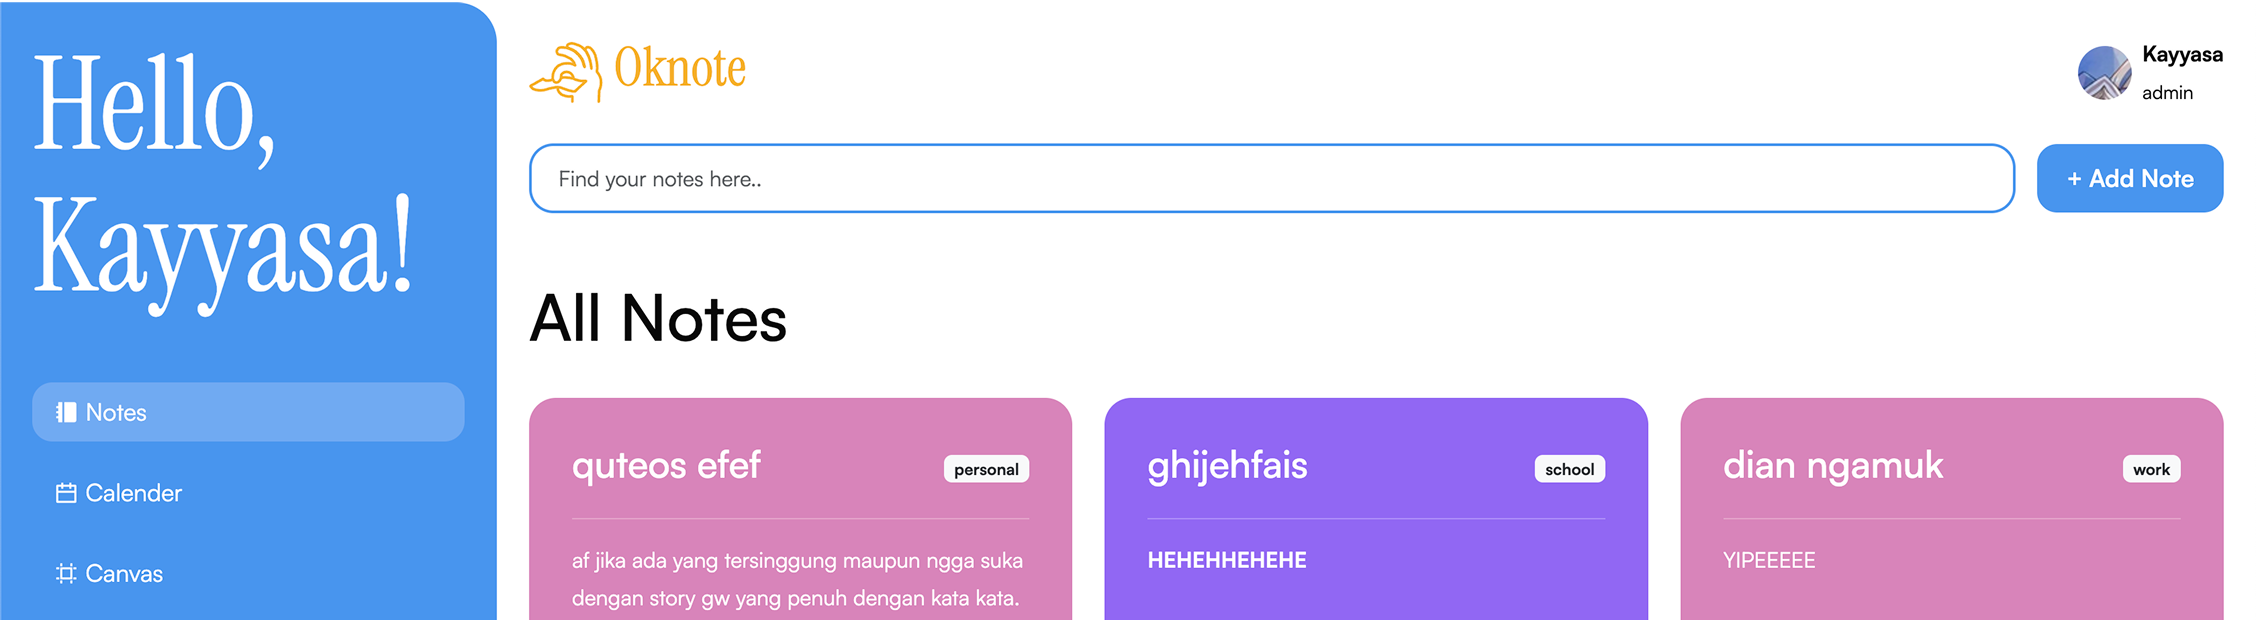
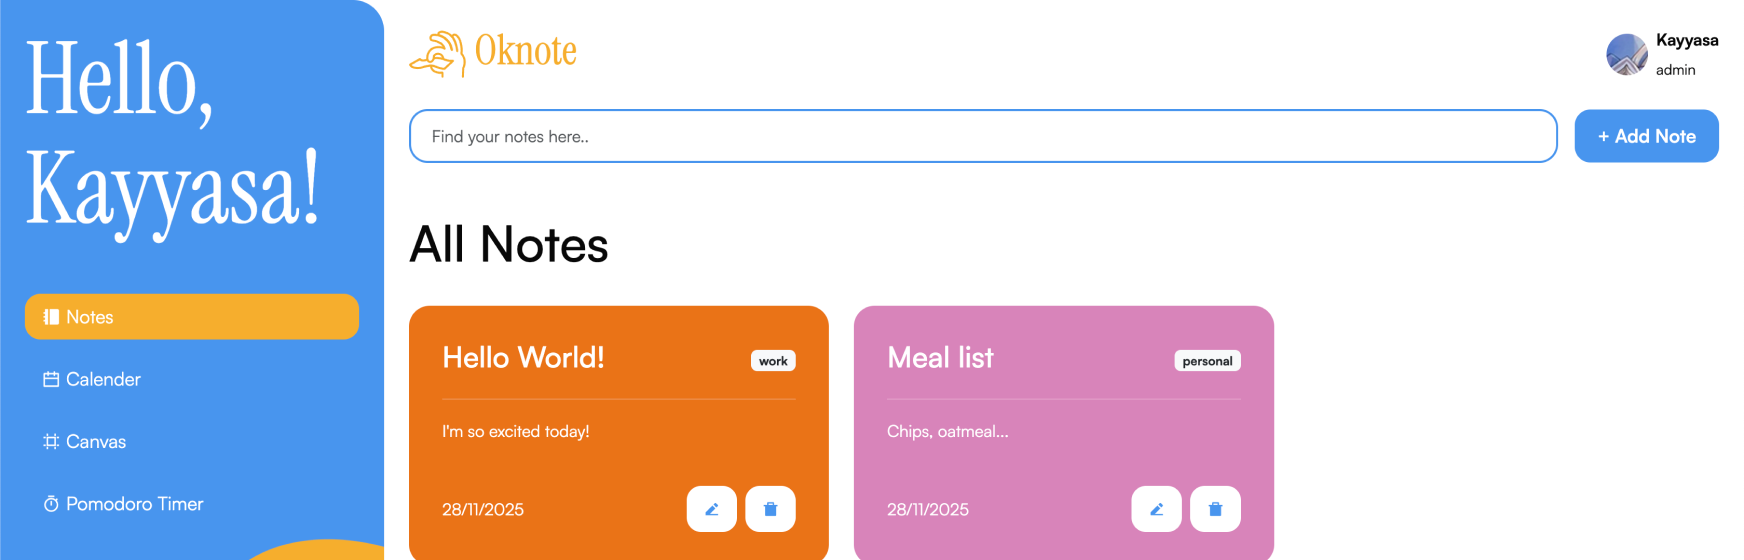
final push

diff --git a/index.html b/index.html
@@ -64,10 +64,12 @@
             <div class="col-6">
               <h2 class="section-title">Oknote? What is that?</h2>
               <p>
-                Lorem ipsum dolor sit amet consectetur adipisicing elit.
-                Perspiciatis similique, error eligendi vero assumenda aut
-                eveniet cum ducimus odit dignissimos molestiae hic consectetur
-                rerum doloribus sequi reiciendis debitis earum tenetur.
+                Oknote is a minimalist calendar-based notes application designed
+                to help users organize their daily activities with ease. It
+                allows users to add quick notes, set time ranges, choose
+                highlight colors, and view all schedules directly inside the
+                calendar. Each note is stored locally using localStorage,
+                ensuring data stays saved even after refreshing the page.
               </p>
             </div>
           </div>
@@ -108,8 +110,8 @@
         <div class="desc text-center">
           <div class="features-title mt-4">
             <p class="py-2">
-              Lorem ipsum dolor sit amet consectetur adipisicing elit.
-              Dignissimos minima consequatur commodi.
+              All your productivity tools in one spot; write, track, plan, and
+              stay focused effortlessly.
             </p>
           </div>
         </div>
@@ -137,8 +139,8 @@
                   <img src="./assets/img/user-1.png" alt="#" />
                 </div>
                 <div class="col-9">
-                  <h4>Eula Lawrence</h4>
-                  <p class="profile-role">CEO of Vengeance</p>
+                  <h4>Meritt Thomas</h4>
+                  <p class="profile-role">Software Engineer</p>
                 </div>
               </div>
             </div>
@@ -156,11 +158,11 @@
             <div class="col-12">
               <div class="row">
                 <div class="col-3">
-                  <img src="./assets/img/user-1.png" alt="#" />
+                  <img src="./assets/img/user-2.png" alt="#" />
                 </div>
                 <div class="col-9">
-                  <h4>Eula Lawrence</h4>
-                  <p class="profile-role">CEO of Vengeance</p>
+                  <h4>Rifat Sungkar</h4>
+                  <p class="profile-role">UI/UX Designer</p>
                 </div>
               </div>
             </div>
@@ -171,15 +173,14 @@
             <div class="col-12">
               <i class="ri-double-quotes-l"></i>
               <p class="my-3">
-                Lorem ipsum dolor sit amet, consectetur adipisicing elit.
-                Dolorum ea consequatur et!
+                Clean, simple, and fast. This notes app helps me stay organized
               </p>
               <i class="ri-double-quotes-r"></i>
             </div>
             <div class="col-12">
               <div class="row">
                 <div class="col-3">
-                  <img src="./assets/img/user-1.png" alt="#" />
+                  <img src="./assets/img/user-3.png" alt="#" />
                 </div>
                 <div class="col-9">
                   <h4>Eula Lawrence</h4>
@@ -194,19 +195,19 @@
             <div class="col-12">
               <i class="ri-double-quotes-l"></i>
               <p class="my-3">
-                Lorem ipsum dolor sit amet, consectetur adipisicing elit.
-                Dolorum ea consequatur et!
+                Clean, simple, and fast. This notes app makes organizing my day
+                way easier.
               </p>
               <i class="ri-double-quotes-r"></i>
             </div>
             <div class="col-12">
               <div class="row">
                 <div class="col-3">
-                  <img src="./assets/img/user-1.png" alt="#" />
+                  <img src="./assets/img/user-4.png" alt="#" />
                 </div>
                 <div class="col-9">
-                  <h4>Eula Lawrence</h4>
-                  <p class="profile-role">CEO of Vengeance</p>
+                  <h4>Anindita H. Putri</h4>
+                  <p class="profile-role">Project Manager</p>
                 </div>
               </div>
             </div>
@@ -217,19 +218,19 @@
             <div class="col-12">
               <i class="ri-double-quotes-l"></i>
               <p class="my-3">
-                Lorem ipsum dolor sit amet, consectetur adipisicing elit.
-                Dolorum ea consequatur et!
+                Clean, simple, and fast. This notes app makes organizing my day
+                way easier.
               </p>
               <i class="ri-double-quotes-r"></i>
             </div>
             <div class="col-12">
               <div class="row">
                 <div class="col-3">
-                  <img src="./assets/img/user-1.png" alt="#" />
+                  <img src="./assets/img/user-5.png" alt="#" />
                 </div>
                 <div class="col-9">
-                  <h4>Eula Lawrence</h4>
-                  <p class="profile-role">CEO of Vengeance</p>
+                  <h4>Kimi A. Alexa</h4>
+                  <p class="profile-role">Student</p>
                 </div>
               </div>
             </div>
@@ -261,7 +262,7 @@
                       aria-expanded="true"
                       aria-controls="collapseOne"
                     >
-                      Ngupgrade tuh apa sih?
+                      What can I use this app for?
                     </button>
                   </h2>
                   <div
@@ -270,9 +271,8 @@
                     data-bs-parent="#accordionExample"
                   >
                     <div class="accordion-body">
-                      <strong>Ngupgrade</strong> adalah website edukasi dan
-                      komunitas buat pelajar SMP–SMA. Isinya ada artikel, info
-                      event, ruang diskusi, dan tempat pamer karya.
+                      You can create notes, manage tasks, track schedules, and
+                      stay organized all in one place.
                     </div>
                   </div>
                 </div>
@@ -286,7 +286,7 @@
                       aria-expanded="false"
                       aria-controls="collapseTwo"
                     >
-                      Siapa aja yang bisa pakai Ngupgrade?
+                      Do my notes save automatically?
                     </button>
                   </h2>
                   <div
@@ -295,8 +295,8 @@
                     data-bs-parent="#accordionExample"
                   >
                     <div class="accordion-body">
-                      Semua pelajar SMP & SMA bisa gabung. Guru atau pembina
-                      juga bisa ikut pantau dan kasih dukungan.
+                      Yes! All notes and events are saved instantly in your
+                      browser’s local storage.
                     </div>
                   </div>
                 </div>
@@ -310,7 +310,7 @@
                       aria-expanded="false"
                       aria-controls="collapseThree"
                     >
-                      Kenapa harus pakai Ngupgrade, bukan platform lain?
+                      Can I customize the colors of my notes?
                     </button>
                   </h2>
                   <div
@@ -319,9 +319,8 @@
                     data-bs-parent="#accordionExample"
                   >
                     <div class="accordion-body">
-                      Karena Ngupgrade ngasih ruang belajar sekaligus interaksi.
-                      Jadi bukan cuma baca materi, tapi juga bisa diskusi,
-                      kolaborasi, dan nemu peluang baru.
+                      Yes, you can choose from multiple color options to
+                      personalize each note.
                     </div>
                   </div>
                 </div>
@@ -335,7 +334,7 @@
                       aria-expanded="false"
                       aria-controls="collapseFour"
                     >
-                      Apakah Ngupgrade gratis?
+                      How does the calendar feature work?
                     </button>
                   </h2>
                   <div
@@ -344,11 +343,8 @@
                     data-bs-parent="#accordionExample"
                   >
                     <div class="accordion-body">
-                      <strong
-                        >Iya, semua fitur utama bisa diakses gratis.</strong
-                      >
-                      Tujuan kami emang buat bantu pelajar berkembang tanpa
-                      hambatan biaya.
+                      You can view monthly schedules and add notes to any date
+                      with just one click.
                     </div>
                   </div>
                 </div>
@@ -362,7 +358,7 @@
                       aria-expanded="false"
                       aria-controls="collapseSix"
                     >
-                      Bagaimana cara ikut kontribusi di Ngupgrade?
+                      Is this app free to use?
                     </button>
                   </h2>
                   <div
@@ -371,9 +367,8 @@
                     data-bs-parent="#accordionExample"
                   >
                     <div class="accordion-body">
-                      Kamu bisa daftar akun, lalu mulai posting karya, ikut
-                      forum diskusi, atau share info event/kompetisi biar makin
-                      rame dan bermanfaat.
+                      Yes! Every feature in this app is completely free with no
+                      hidden fees.
                     </div>
                   </div>
                 </div>
@@ -387,7 +382,7 @@
                       aria-expanded="false"
                       aria-controls="collapseFive"
                     >
-                      Bagaimana cara ikut kontribusi di Ngupgrade?
+                      Can I edit or delete notes after creating them?
                     </button>
                   </h2>
                   <div
@@ -396,9 +391,8 @@
                     data-bs-parent="#accordionExample"
                   >
                     <div class="accordion-body">
-                      Kamu bisa daftar akun, lalu mulai posting karya, ikut
-                      forum diskusi, atau share info event/kompetisi biar makin
-                      rame dan bermanfaat.
+                      Yes, you can open any note to view details, update
+                      information, or delete it whenever you need.
                     </div>
                   </div>
                 </div>

diff --git a/my-css/style.css b/my-css/style.css
@@ -273,7 +273,7 @@ body {
 }
 .testimonial .testimonial-content .testimonial-card {
   width: 23rem;
-  height: 26rem;
+  height: 22rem;
   margin-right: 1rem;
   color: white;
   border-radius: 28px;
@@ -802,7 +802,7 @@ h1 {
   border-radius: 16px;
   border: 4px solid #4895ef;
   background: white;
-  color: white;
+  color: #080808;
   font-size: 17px;
   line-height: 1.4;
   outline: none;
@@ -1667,7 +1667,7 @@ h1 {
 .modal-overlay.active .modal .color-circle.blue {
   background: #6aa6ff;
 }
-.modal-overlay.active .modal .color-circle.selected {
+.modal-overlay.active .modal .color-circle.color-selected {
   border-color: rgb(245, 244, 244);
 }
 .modal-overlay.active .modal .add-note-submit {

diff --git a/my-css/style.scss b/my-css/style.scss
@@ -342,7 +342,7 @@ body {
     .testimonial-card {
       // gap: 1rem;
       width: 23rem;
-      height: 26rem;
+      height: 22rem;
       margin-right: 1rem;
       color: $white;
       border-radius: 28px;
@@ -976,7 +976,7 @@ h1 {
     border-radius: 16px;
     border: 4px solid $primary;
     background: $white;
-    color: white;
+    color: $black;
     font-size: 17px;
     line-height: 1.4;
     outline: none;
@@ -2113,7 +2113,7 @@ $primary-clr: #4895ef;
         background: #6aa6ff;
       }
 
-      .color-circle.selected {
+      .color-circle.color-selected {
         border-color: rgb(245, 244, 244);
       }
 

diff --git a/js/calendar.js b/js/calendar.js
@@ -149,8 +149,8 @@ closeModal.addEventListener("click", () => {
 // pilih warna
 colorChoices.forEach((c) => {
   c.addEventListener("click", () => {
-    colorChoices.forEach((x) => x.classList.remove("selected"));
-    c.classList.add("selected");
+    colorChoices.forEach((x) => x.classList.remove("color-selected"));
+    c.classList.add("color-selected");
     selectedColor = c.getAttribute("data-color");
   });
 });
